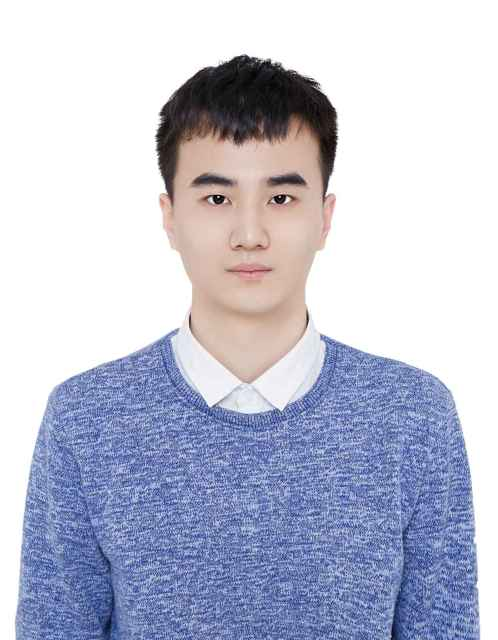
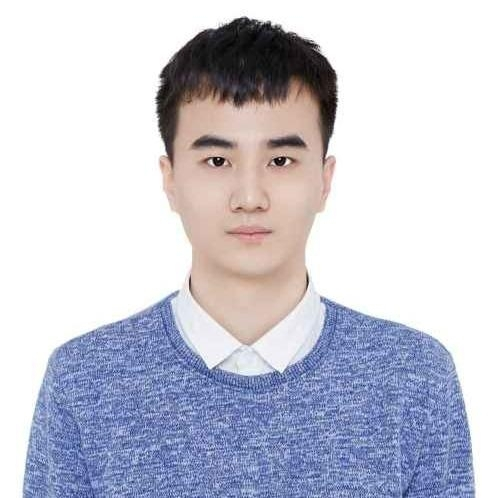
更新照片

diff --git a/html/resume.html b/html/resume.html
@@ -46,7 +46,7 @@
   .photo {
     width: 140px;
     position: absolute;
-    top: -15px;
+    top: 20px;
     right: 0;
     /*left: calc(50% - 400px + 700px - 100px);*/
   }
